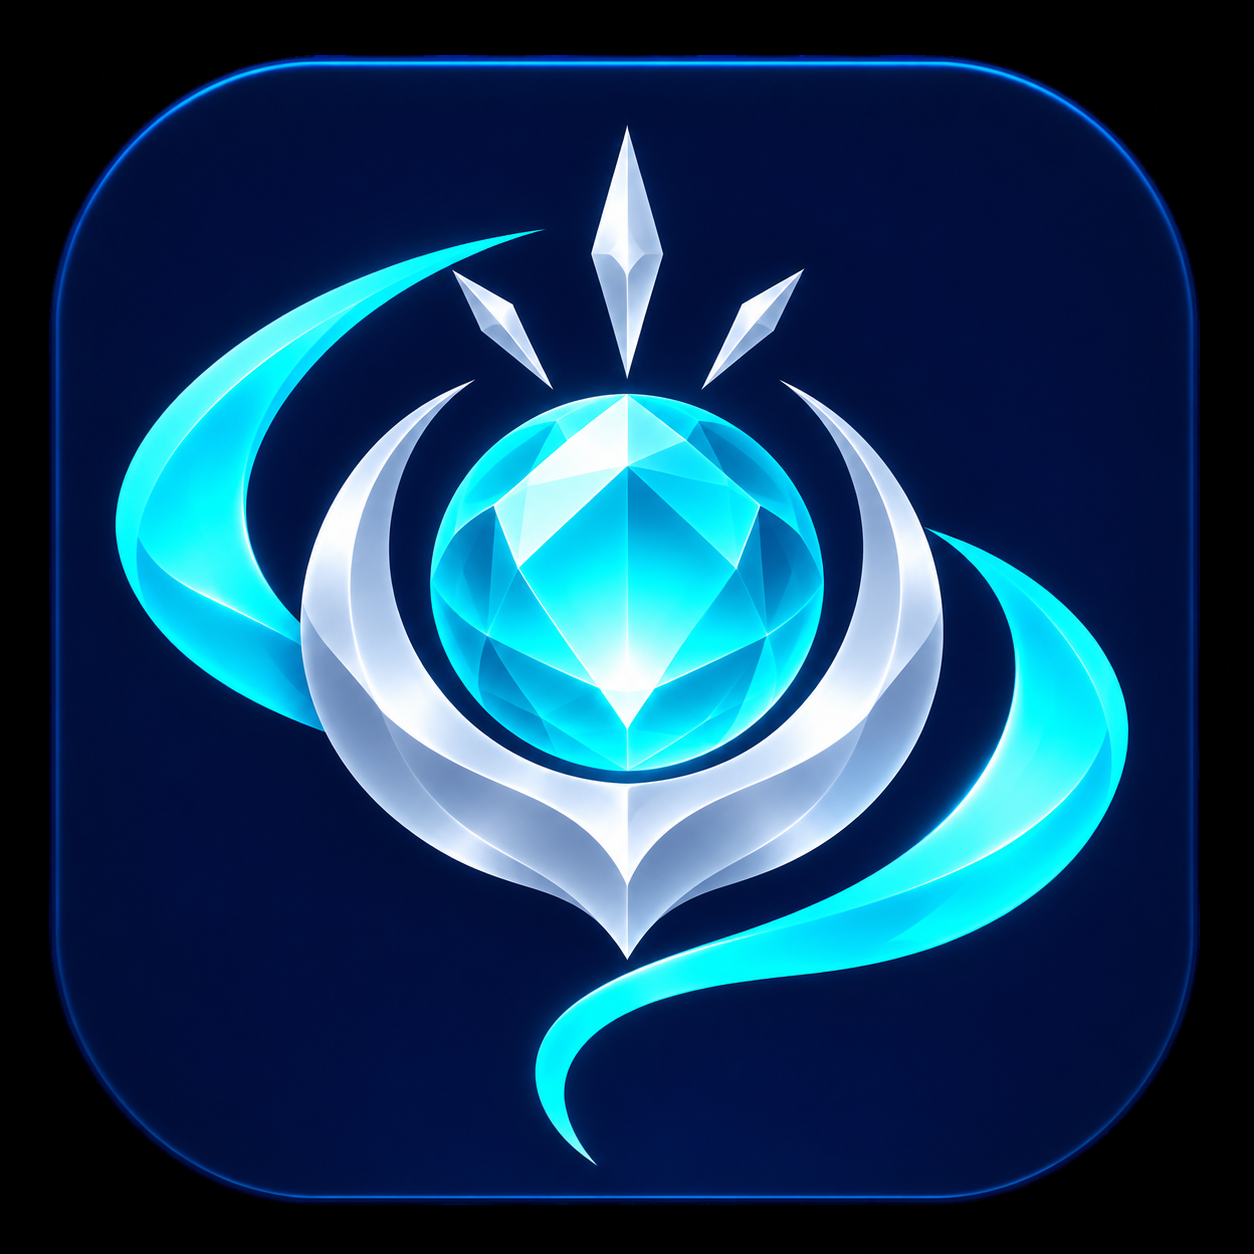
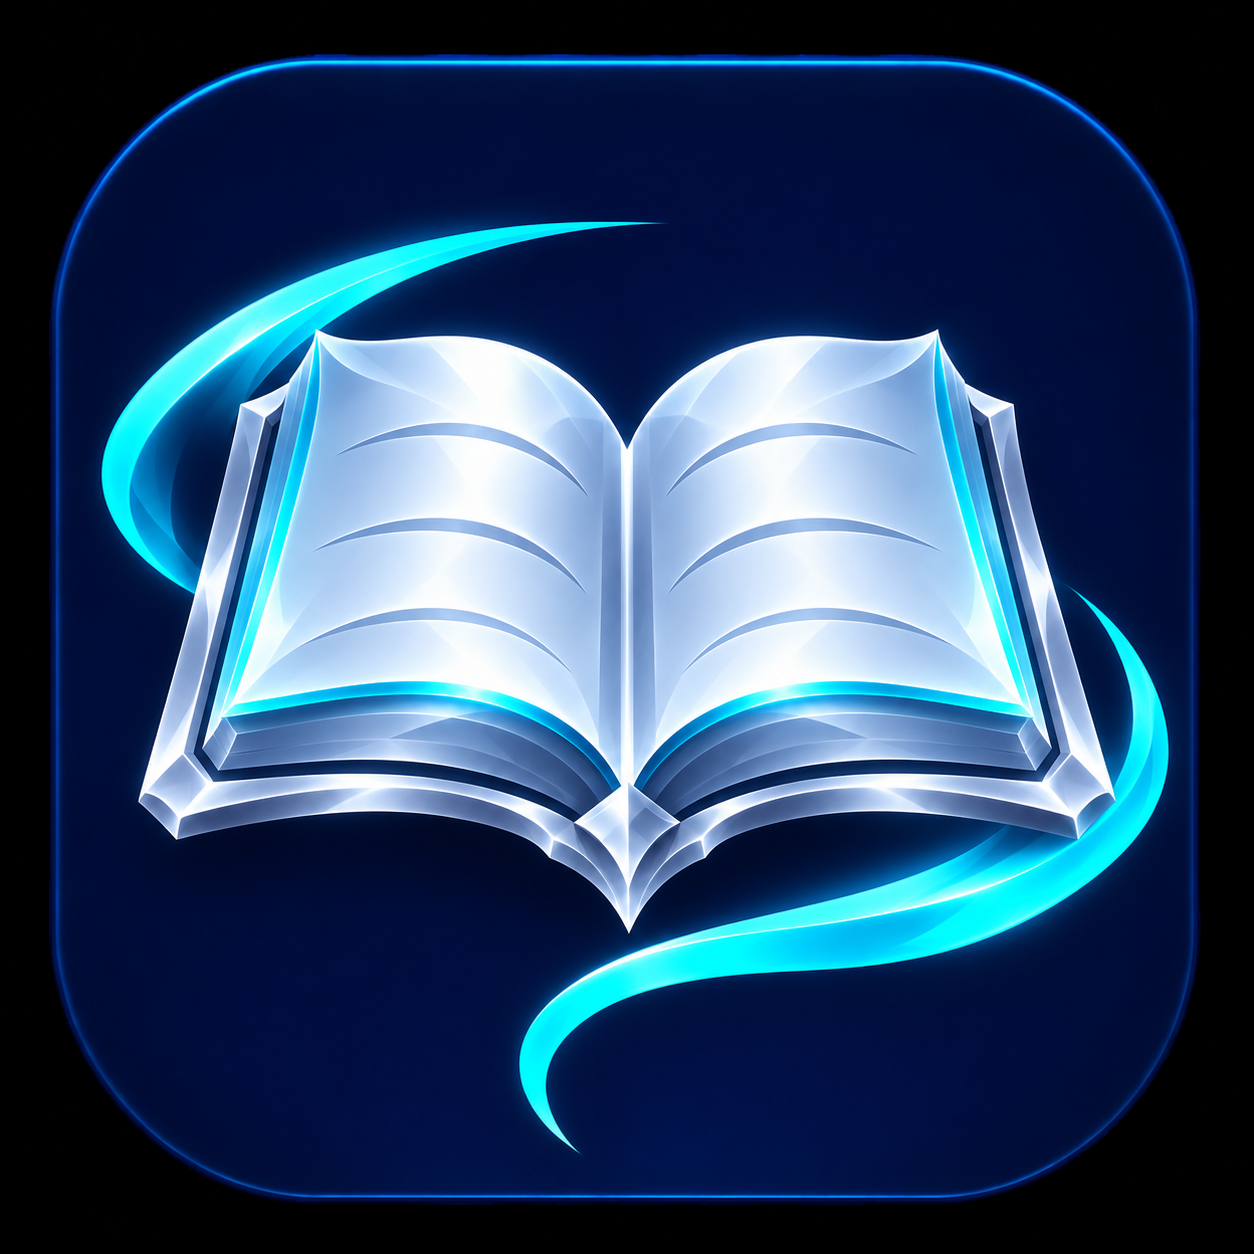
Use an open spellbook for Sorcerer and update EN/PL artwork examples; beta.13

diff --git a/README.pl.md b/README.pl.md
@@ -8,7 +8,7 @@
 
 Bezpłatna aplikacja Windows z otwartym kodem, pokazująca statystyki postaci i to, co robisz w grze. Działa samodzielnie w tle. Nie wymaga uruchomionego DPS metera, tokena Discord ani konfiguracji w Developer Portal.
 
-**[Pobierz na Windows](https://github.com/Kooowal-design/aion2-presence/releases/tag/v0.2.0-beta.12)** · **[Wszystkie wersje](https://github.com/Kooowal-design/aion2-presence/tags)** · **[Zgłoś błąd](https://github.com/Kooowal-design/aion2-presence/issues/new/choose)**
+**[Pobierz na Windows](https://github.com/Kooowal-design/aion2-presence/releases/tag/v0.2.0-beta.13)** · **[Wszystkie wersje](https://github.com/Kooowal-design/aion2-presence/tags)** · **[Zgłoś błąd](https://github.com/Kooowal-design/aion2-presence/issues/new/choose)**
 
 ## Jak wygląda na Discordzie
 
@@ -40,7 +40,7 @@ Wyłączenie **Aktywności** ukrywa jej tekst i małą ikonę oraz zatrzymuje au
 
 ## Własne ikony klas i aktywności
 
-![Dziewięć własnych ikon klas AION2 Presence](docs/presence-classes-v11-pl.png)
+![Dziewięć własnych ikon klas AION2 Presence](docs/presence-classes-v13-pl.png)
 
 Duża grafika oznacza klasę. Zestaw zawiera Gladiatora, Templara, Rangera, Assassina, Sorcerera, Spiritmastera, Clerica, Chantera i Brawlera. Grafika Brawlera jest przygotowana na obsługiwane wersje gry i nie oznacza dostępności klasy w każdym regionie.
 
@@ -72,7 +72,7 @@ Walka z bossem ma pierwszeństwo przed zbieraniem i craftingiem. **Nie wykrywamy
 
 ## Instalacja
 
-1. Otwórz **[bieżące wydanie](https://github.com/Kooowal-design/aion2-presence/releases/tag/v0.2.0-beta.12)** i pobierz **Aion2Presence-Setup.exe**. **[Wszystkie wersje](https://github.com/Kooowal-design/aion2-presence/tags)** znajdziesz w Tags; opcja **Downloads** przy danej wersji prowadzi do plików wydania.
+1. Otwórz **[bieżące wydanie](https://github.com/Kooowal-design/aion2-presence/releases/tag/v0.2.0-beta.13)** i pobierz **Aion2Presence-Setup.exe**. **[Wszystkie wersje](https://github.com/Kooowal-design/aion2-presence/tags)** znajdziesz w Tags; opcja **Downloads** przy danej wersji prowadzi do plików wydania.
 2. Przy ręcznej aktualizacji zakończ działającą kopię z menu ikony przy zegarku. Uruchom instalator, wybierz folder i kliknij **Zainstaluj**.
 3. Włącz **AION2 Presence** ze skrótu na pulpicie lub z menu Start.
 4. Uruchom AION 2 i Discord desktop na tym samym komputerze. Wymagany jest [Npcap](https://npcap.com/#download); istniejącą instalację można wykorzystać ponownie.

diff --git a/README.en.md b/README.en.md
@@ -8,7 +8,7 @@
 
 A free, open-source Windows app that shows your character stats and what you are doing in game. Runs independently in the background — no running DPS meter, Discord token or developer setup required.
 
-**[Download for Windows](https://github.com/Kooowal-design/aion2-presence/releases/tag/v0.2.0-beta.12)** · **[All versions](https://github.com/Kooowal-design/aion2-presence/tags)** · **[Report a bug](https://github.com/Kooowal-design/aion2-presence/issues/new/choose)**
+**[Download for Windows](https://github.com/Kooowal-design/aion2-presence/releases/tag/v0.2.0-beta.13)** · **[All versions](https://github.com/Kooowal-design/aion2-presence/tags)** · **[Report a bug](https://github.com/Kooowal-design/aion2-presence/issues/new/choose)**
 
 ## How it looks on Discord
 
@@ -40,7 +40,7 @@ Turning **Activity** off hides its profile text and small badge, and prevents Au
 
 ## Original class and activity icons
 
-![Nine original class icons for AION2 Presence](docs/presence-classes-v11.png)
+![Nine original class icons for AION2 Presence](docs/presence-classes-v13.png)
 
 The large image identifies your class. Nine designs are included: Gladiator, Templar, Ranger, Assassin, Sorcerer, Spiritmaster, Cleric, Chanter and Brawler. The Brawler design is prepared for supported game versions; it does not imply availability in every region.
 
@@ -72,7 +72,7 @@ Boss combat takes priority over gathering and crafting. **AFK and open-world loc
 
 ## Install
 
-1. Open the **[current release](https://github.com/Kooowal-design/aion2-presence/releases/tag/v0.2.0-beta.12)** and download **Aion2Presence-Setup.exe**. Browse **[all versions](https://github.com/Kooowal-design/aion2-presence/tags)** through Tags; use **Downloads** beside a version to open its release assets.
+1. Open the **[current release](https://github.com/Kooowal-design/aion2-presence/releases/tag/v0.2.0-beta.13)** and download **Aion2Presence-Setup.exe**. Browse **[all versions](https://github.com/Kooowal-design/aion2-presence/tags)** through Tags; use **Downloads** beside a version to open its release assets.
 2. If updating manually, exit the running copy from its system tray menu. Run the installer, choose a folder and select **Install**.
 3. Launch **AION2 Presence** from its desktop shortcut or the Windows Start menu.
 4. Run AION 2 and Discord desktop on the same computer. [Npcap](https://npcap.com/#download) is required; an existing installation can be reused.

diff --git a/README.md b/README.md
@@ -8,7 +8,7 @@
 
 A free, open-source Windows app that shows your character stats and what you are doing in game. Runs independently in the background — no running DPS meter, Discord token or developer setup required.
 
-**[Download for Windows](https://github.com/Kooowal-design/aion2-presence/releases/tag/v0.2.0-beta.12)** · **[All versions](https://github.com/Kooowal-design/aion2-presence/tags)** · **[Report a bug](https://github.com/Kooowal-design/aion2-presence/issues/new/choose)**
+**[Download for Windows](https://github.com/Kooowal-design/aion2-presence/releases/tag/v0.2.0-beta.13)** · **[All versions](https://github.com/Kooowal-design/aion2-presence/tags)** · **[Report a bug](https://github.com/Kooowal-design/aion2-presence/issues/new/choose)**
 
 ## How it looks on Discord
 
@@ -40,7 +40,7 @@ Turning **Activity** off hides its profile text and small badge, and prevents Au
 
 ## Original class and activity icons
 
-![Nine original class icons for AION2 Presence](docs/presence-classes-v11.png)
+![Nine original class icons for AION2 Presence](docs/presence-classes-v13.png)
 
 The large image identifies your class. Nine designs are included: Gladiator, Templar, Ranger, Assassin, Sorcerer, Spiritmaster, Cleric, Chanter and Brawler. The Brawler design is prepared for supported game versions; it does not imply availability in every region.
 
@@ -72,7 +72,7 @@ Boss combat takes priority over gathering and crafting. **AFK and open-world loc
 
 ## Install
 
-1. Open the **[current release](https://github.com/Kooowal-design/aion2-presence/releases/tag/v0.2.0-beta.12)** and download **Aion2Presence-Setup.exe**. Browse **[all versions](https://github.com/Kooowal-design/aion2-presence/tags)** through Tags; use **Downloads** beside a version to open its release assets.
+1. Open the **[current release](https://github.com/Kooowal-design/aion2-presence/releases/tag/v0.2.0-beta.13)** and download **Aion2Presence-Setup.exe**. Browse **[all versions](https://github.com/Kooowal-design/aion2-presence/tags)** through Tags; use **Downloads** beside a version to open its release assets.
 2. If updating manually, exit the running copy from its system tray menu. Run the installer, choose a folder and select **Install**.
 3. Launch **AION2 Presence** from its desktop shortcut or the Windows Start menu.
 4. Run AION 2 and Discord desktop on the same computer. [Npcap](https://npcap.com/#download) is required; an existing installation can be reused.

diff --git a/docs/RELEASE-NOTES.md b/docs/RELEASE-NOTES.md
@@ -1,14 +1,14 @@
 Public beta for Windows · English / Polski
 
-## New in 0.2.0-beta.12
+## New in 0.2.0-beta.13
 
-- The idle activity line now reads **AION 2 - In game**, instead of repeating **AION 2** below the game title.
-- Activity-only member-list mode uses the same descriptive idle text. Auto still shows selected stats while idle, and the fixed game-name mode remains **AION 2**.
-- Recognized activities still show their own names. Normal in-game status has no small badge.
-- All display choices, original artwork and capture behavior from beta.11 are retained.
+- Sorcerer now uses an **open spellbook** icon, matching the class weapon. The Discord image URL is versioned so clients can fetch the new artwork.
+- Updated class-artwork illustrations in both the English and Polish README.
+- Includes the beta.12 correction: idle activity reads **AION 2 - In game** in the profile and Activity-only member-list mode. Auto still shows selected stats while idle; the fixed game-name mode remains **AION 2**.
+- Recognized activity names and the capture engine are unchanged. Normal in-game status has no small activity badge.
 
-Download **Aion2Presence-Setup.exe**, or choose **Download and install** in the app. For a manual update, exit the previous copy from its system tray menu first. Settings and the installation folder are retained.
+Download **Aion2Presence-Setup.exe**, or choose **Download and install** in the app. You can update directly to this version. For a manual update, exit the previous copy from its system tray menu first. Settings and the installation folder are retained.
 
-**Polski:** Zwykła gra pokazuje teraz **AION 2 - In game** w linii aktywności profilu oraz w trybie samej aktywności na liście. Tryb automatyczny nadal pokazuje wybrane statystyki podczas zwykłej gry, a tryb samej nazwy gry pozostaje **AION 2**. Rozpoznane aktywności zachowują swoje nazwy.
+**Polski:** Sorcerer ma teraz ikonę **otwartej księgi**. Plansze klas w opisach EN i PL również zostały poprawione. Wydanie zawiera tekst zwykłej aktywności **AION 2 - In game** z beta.12. Można od razu zainstalować tę wersję; ustawienia i folder instalacji zostają zachowane.
 
 Npcap, AION 2 and Discord desktop are required on the same computer. The executable remains unsigned. Matching source, notices and SHA-256 checksums are attached.

diff --git a/AionPresence/Assets/Discord/README.md b/AionPresence/Assets/Discord/README.md
@@ -2,7 +2,7 @@
 
 Original class icons and activity badges created for AION2 Presence with the built-in image generation tool. The project logo was the style reference. Exact prompts are in `prompts.json`.
 
-- `class/`: nine class designs; Gladiator uses one two-handed greatsword. The Brawler design is prepared for supported game versions.
+- `class/`: nine class designs; Gladiator uses one two-handed greatsword; Sorcerer uses an open spellbook. The Brawler design is prepared for supported game versions.
 - `activity/`: boss, dungeon, crafting, gathering and Shugo. The Shugo badge uses a stylized face.
 - There is deliberately no idle / in-game badge.
 
